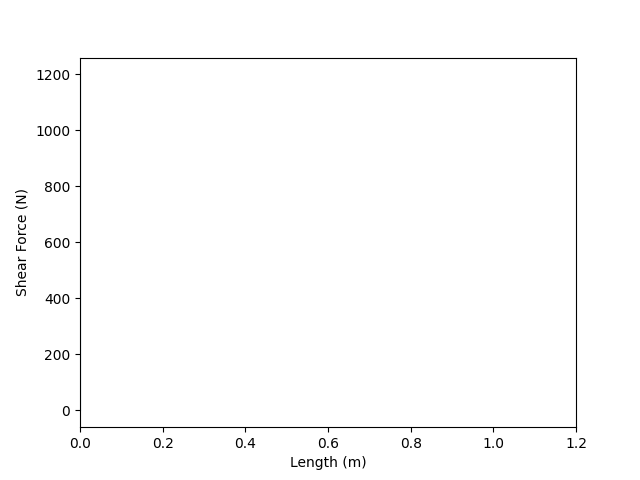
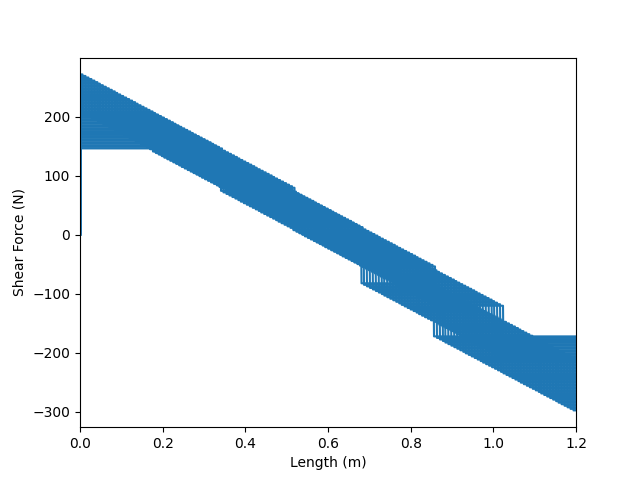
patched up cross section generation

diff --git a/calculate.py b/calculate.py
@@ -22,13 +22,13 @@ def generate_cross_section(top_flange_width, bottom_flange_width, web_height):
     return [
         (0, th / 2, bottom_flange_width, th),  # bottom flange
         (
-            (bottom_flange_width  - th)/ 2,
+            (bottom_flange_width - th) / 2,
             th + web_height / 2,
             th,
             web_height,
         ),  # right web
         (
-            -bottom_flange_width / 2 + th / 2,
+            (-bottom_flange_width + th) / 2,
             th + web_height / 2,
             th,
             web_height,
@@ -40,23 +40,11 @@ def generate_cross_section(top_flange_width, bottom_flange_width, web_height):
             th,
         ),  # glue top right
         (
-            -web_spacing + glue_width / 2,
+            (-bottom_flange_width + th + glue_width) / 2,
             th / 2 + web_height,
             glue_width - th,
             th,
         ),  # glue top left
-        (
-            web_spacing - glue_width / 2,
-            3 * th / 2,
-            glue_width - th,
-            th,
-        ),  # glue bottom right
-        (
-            -web_spacing + glue_width / 2,
-            3 * th / 2,
-            glue_width - th,
-            th,
-        ),  # glue bottom left
         (0, 3 * th / 2 + web_height, top_flange_width, th),  # top flange
     ]
 
@@ -258,15 +246,15 @@ def generate_envelop(start, stop, num, loads, spacing):
     bending_moment_envelop = []
     max_shear_force = 0
     max_bending_moment = 0
-    x_vals = np.linspace(0, bridge_length, spacing)
+    x_vals = np.linspace(0, bridge_length / 1000, spacing)
 
     for load_position in load_positions:
         # shift positions of loads
-        new_loads = deepcopy(loads)
+        new_loads = [[param for param in load] for load in loads]
         for load in new_loads:
             if load[0] == "point" or load[0] == "distributed":
                 load[1] += load_position
-        print(new_loads)
+
         # calculate bending moment and shear force expressions
         shear_force_expr, critical_lengths = get_shear_force_func(new_loads)
         bending_moment_expr = sy.integrate(shear_force_expr)
@@ -283,14 +271,14 @@ def generate_envelop(start, stop, num, loads, spacing):
         max_bending_moment = max(
             max_expression(critical_lengths, bending_moment_expr)[1], max_bending_moment
         )
-
-        return (
-            x_vals,
-            shear_force_envelop,
-            bending_moment_envelop,
-            max_shear_force,
-            max_bending_moment,
-        )
+    # print(shear_force_envelop[0])
+    return (
+        x_vals,
+        shear_force_envelop,
+        bending_moment_envelop,
+        max_shear_force,
+        max_bending_moment,
+    )
 
 
 ### CODE FOR TRUSS BRIDGES ###

diff --git a/graphs.py b/graphs.py
@@ -3,10 +3,19 @@ import matplotlib.pyplot as plt
 from matplotlib import collections
 import sympy as sy
 
+color_wheel = plt.rcParams["axes.prop_cycle"].by_key()["color"]
+
 
 def plot_bridge(
-    nodes, members, x_bounds=None, y_bounds=None, margin=6, force_length=3, line_width=2
-,full_screen=False):
+    nodes,
+    members,
+    x_bounds=None,
+    y_bounds=None,
+    margin=6,
+    force_length=3,
+    line_width=2,
+    full_screen=False,
+):
     ax = plt.gca()
 
     # Lines
@@ -45,7 +54,7 @@ def plot_bridge(
         angle = (
             np.arctan2(
                 (member.nodes[0].y - member.nodes[1].y),
-                (member.nodes[0].x - member.nodes[1].x)
+                (member.nodes[0].x - member.nodes[1].x),
             )
             * 180
             / np.pi
@@ -60,8 +69,8 @@ def plot_bridge(
             ha="center",
             va="center",
             rotation=angle,
-            size= 8,
-            bbox=dict(facecolor='white', edgecolor='none', pad=line_width)
+            size=8,
+            bbox=dict(facecolor="white", edgecolor="none", pad=line_width),
         )
 
     ax.set_aspect("equal", adjustable="box")
@@ -69,9 +78,9 @@ def plot_bridge(
         plt.xlim([x_bounds[0] - margin, x_bounds[1] + margin])
     if y_bounds != None:
         plt.ylim([y_bounds[0] - margin, y_bounds[1] + margin])
-    if full_screen: 
+    if full_screen:
         wm = plt.get_current_fig_manager()
-        wm.window.state('zoomed')
+        wm.window.state("zoomed")
     plt.show()
 
 
@@ -86,14 +95,20 @@ def plot_sympy(
     spacing=1000,
     fill=False,
     show=True,
+    multiple_graphs=False,
+    color_1=color_wheel[0],
 ):
-    if type(sympy_expr) == np.ndarray:
-        y_axis = sympy_expr
-        x_axis = symbol
+    if multiple_graphs:
+        for y_data in sympy_expr:
+            plt.plot(symbol, y_data, color=color_1)
     else:
-        x_axis = np.linspace(interval[0], interval[1], spacing)
-        y_axis = sy.lambdify(symbol, sympy_expr)(x_axis)
-    (line,) = plt.plot(x_axis, y_axis)
+        if type(sympy_expr) == np.ndarray:
+            y_axis = sympy_expr
+            x_axis = symbol
+        else:
+            x_axis = np.linspace(interval[0], interval[1], spacing)
+            y_axis = sy.lambdify(symbol, sympy_expr)(x_axis)
+        plt.plot(x_axis, y_axis, color=color_1)
     plt.xlabel(x_axis_label)
     plt.ylabel(y_axis_label)
     ax = plt.gca()
@@ -101,7 +116,7 @@ def plot_sympy(
     if invert_y:
         ax.invert_yaxis()
     if fill:
-        ax.fill_between(x_axis, y_axis, facecolor=line.get_color())
+        ax.fill_between(x_axis, y_axis, facecolor=color_1)
     plt.savefig(save_path)
     if show:
         plt.show()

diff --git a/bridge.py b/bridge.py
@@ -3,10 +3,10 @@ from graphs import *
 
 
 def get_FOS(
-    top_flange_width, bottom_flange_width, webs_height, diaphragm_num, web_spacing, max_shear_force, max_bending_moment
+    top_flange_width, bottom_flange_width, webs_height, diaphragm_num, max_shear_force, max_bending_moment
 ):
     cross_section = generate_cross_section(
-        top_flange_width, bottom_flange_width, webs_height, web_spacing
+        top_flange_width, bottom_flange_width, webs_height
     )
 
     print(cross_section)
@@ -21,22 +21,31 @@ loads = [
     ["point", 1.028, 90],
     ["reaction", 1.200],
 ]
-data = generate_envelop(-0.1, 0.1, 200, loads, 1000)
+data = generate_envelop(-0.172, 0.172, 50, loads, 1000)
 
-print(data[1])
 
 plot_sympy(
-    data[0],
     data[1],
+    data[0],
     (0, 1.2),
     x_axis_label="Length (m)",
     y_axis_label="Shear Force (N)",
-    fill=True,
     save_path="img\\SFD_envelop.png",
-    show=True,
+    show=False,
+    multiple_graphs=True
 )
 
-
+plot_sympy(
+    data[2],
+    data[0],
+    (0, 1.2),
+    x_axis_label="Length (m)",
+    y_axis_label="Bending Moment (Nm)",
+    save_path="img\\BMD_envelop.png",
+    show=False,
+    invert_y = True,
+    multiple_graphs=True
+)
 # get_FOS(100, 100, 50, 1, 80)
 # nodes, top_nodes, bottom_nodes = generate_standard_truss(7, 3, 24)
 

diff --git a/design0.py b/design0.py
@@ -2,6 +2,8 @@ import calculate
 import graphs
 import sympy as sy
 
+hmm = calculate.generate_cross_section(100, 80, 75-calculate.th)
+print(hmm)
 # [distance from base, width, height]
 rectangles = [
     [75 + 1.27 / 2, 100, 1.27],
@@ -11,7 +13,6 @@ rectangles = [
     [75 / 2, 1.27, 75],
     [1.27 / 2, 80 - 2 * 1.27, 1.27],
 ]
-
 
 # ['point' ,length (m), force (N)]
 # ['distributed' , length (m), uniform load (Nm)]
